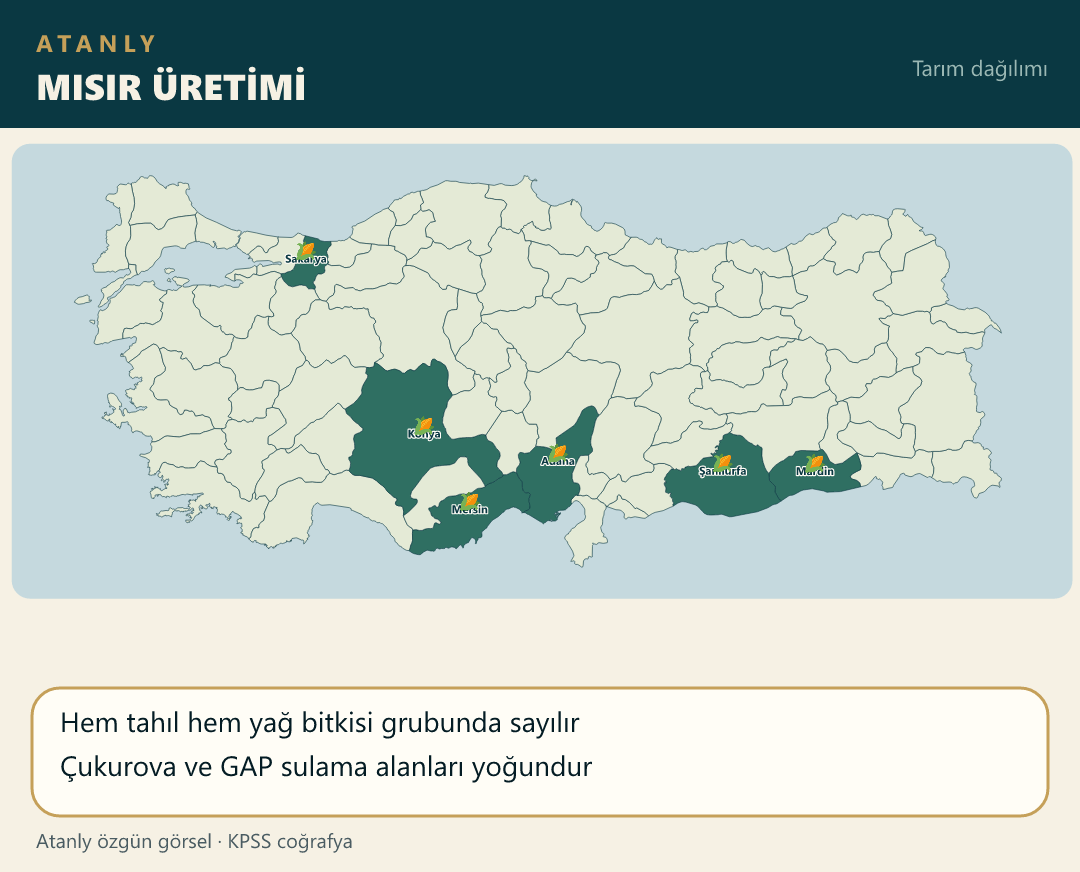
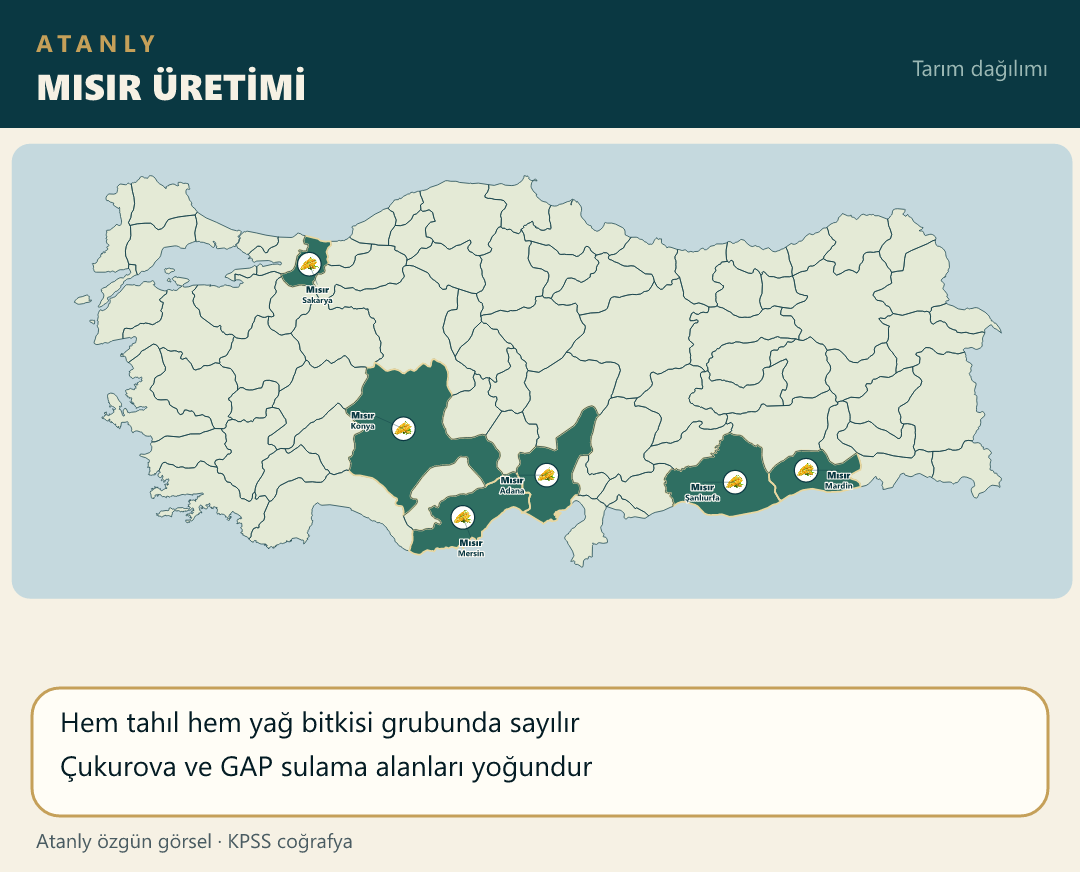
Place the corn photo on the production provinces' land-center pins.

diff --git a/scripts/build-atanly-maps.js b/scripts/build-atanly-maps.js
@@ -615,7 +615,16 @@ function main() {
         { file: "pamuk.png", title: "PAMUK ÜRETİMİ", iller: ["Şanlıurfa", "Diyarbakır", "Adana", "Aydın", "İzmir", "Hatay", "Mardin"], facts: ["Sıcaklık ve sulama ister", "Çukurova ve Güneydoğu öne çıkar"] },
         { file: "zeytin.png", title: "ZEYTİN ÜRETİMİ", iller: ["Aydın", "İzmir", "Balıkesir", "Manisa", "Muğla", "Bursa", "Hatay", "Mersin", "Gaziantep"], facts: ["Akdeniz iklimi kıyı kuşağı", "Ege birinci sıradadır"] },
         { file: "üzüm.png", title: "ÜZÜM ÜRETİMİ", iller: ["Manisa", "Denizli", "İzmir", "Nevşehir", "Elazığ", "Gaziantep", "Tekirdağ"], facts: ["Ege bağcılığın merkezidir", "Kapadokya ve Güneydoğu’da da yetişir"] },
-        { file: "mısır.png", title: "MISIR ÜRETİMİ", iller: ["Adana", "Şanlıurfa", "Mardin", "Sakarya", "Mersin", "Konya"], facts: ["Hem tahıl hem yağ bitkisi grubunda sayılır", "Çukurova ve GAP sulama alanları yoğundur"] },
+        { file: "mısır.png", title: "MISIR ÜRETİMİ", urun: "Mısır",
+            noktalar: [
+                { il: "Adana", ldx: -34, ldy: 8 },
+                { il: "Şanlıurfa", ldx: -32, ldy: 8 },
+                { il: "Mardin", ldx: 32, ldy: 8 },
+                { il: "Sakarya", ldx: 8, ldy: 28 },
+                { il: "Mersin", ldx: 8, ldy: 28 },
+                { il: "Konya", ldx: -40, ldy: -10 }
+            ],
+            facts: ["Hem tahıl hem yağ bitkisi grubunda sayılır", "Çukurova ve GAP sulama alanları yoğundur"] },
         { file: "patates.png", title: "PATATES ÜRETİMİ", iller: ["Niğde", "Nevşehir", "Afyon", "Bolu", "Erzurum", "İzmir"], facts: ["Serin ve yüksek yerlerde verim artar", "Niğde–Nevşehir öne çıkar"] },
         { file: "arpa.png", title: "ARPA ÜRETİMİ", urun: "Arpa", iller: ["Konya", "Ankara", "Şanlıurfa", "Kayseri", "Yozgat", "Kırşehir"], facts: ["Buğdaya göre daha kurak koşullara dayanır", "Hayvancılık yemi olarak da önemlidir"] },
         { file: "seker_pancar.png", title: "ŞEKER PANCARI", iller: ["Konya", "Eskişehir", "Aksaray", "Yozgat", "Tokat", "Erzurum", "Kayseri"], facts: ["Ilıman-karasal iklim ve sulama", "Şeker fabrikaları çevresinde yoğunlaşır"] },

diff --git a/notlar/cografya-19-not.js b/notlar/cografya-19-not.js
@@ -2,7 +2,7 @@
 (function () {
     function harita(src, alt) {
         return '<div class="mt-4 overflow-hidden rounded-xl border border-blue-200 dark:border-blue-700/50 bg-white dark:bg-slate-800 p-2">' +
-            '<img src="./src/img/' + src + '?v=29" alt="' + alt + ' Haritası" class="w-full h-auto rounded-lg object-contain" loading="lazy">' +
+            '<img src="./src/img/' + src + '?v=30" alt="' + alt + ' Haritası" class="w-full h-auto rounded-lg object-contain" loading="lazy">' +
             "</div>";
     }
 

diff --git a/index.html b/index.html
@@ -117,7 +117,7 @@
     <script src="notlar/cografya-16-not.js?v=3"></script>
     <script src="notlar/cografya-17-not.js?v=3"></script>
     <script src="notlar/cografya-18-not.js?v=17"></script>
-    <script src="notlar/cografya-19-not.js?v=25"></script>
+    <script src="notlar/cografya-19-not.js?v=26"></script>
     <script src="notlar/cografya-20-not.js?v=1"></script>
     <script src="notlar/cografya-21-not.js?v=32"></script>
     <script src="notlar/cografya-22-not.js?v=1"></script>
